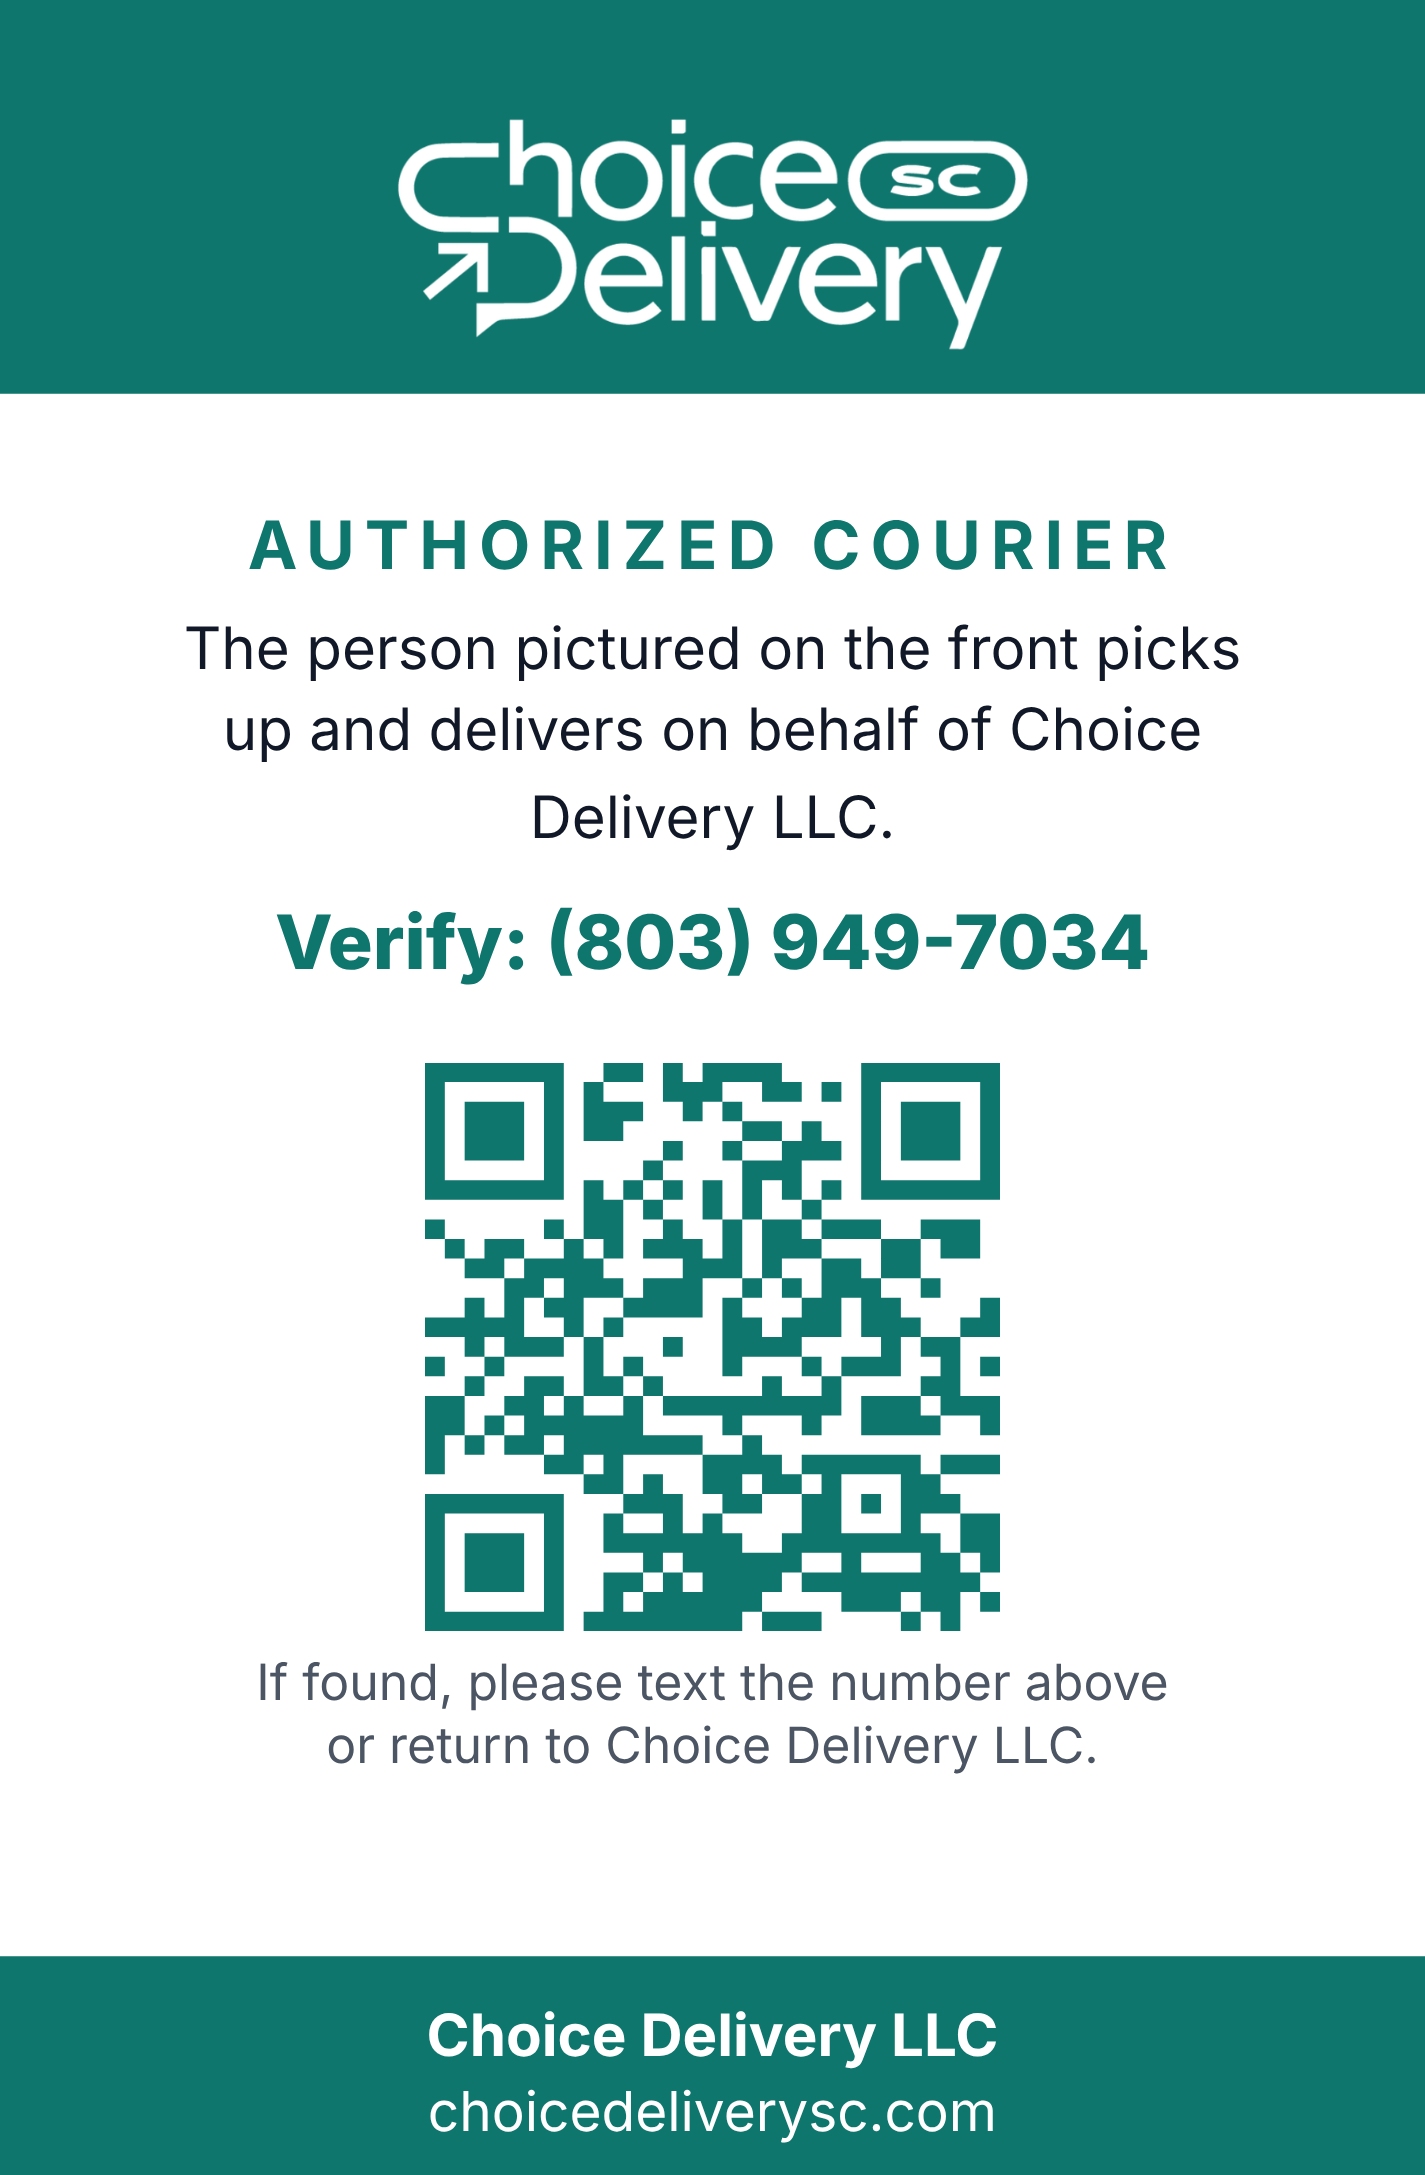
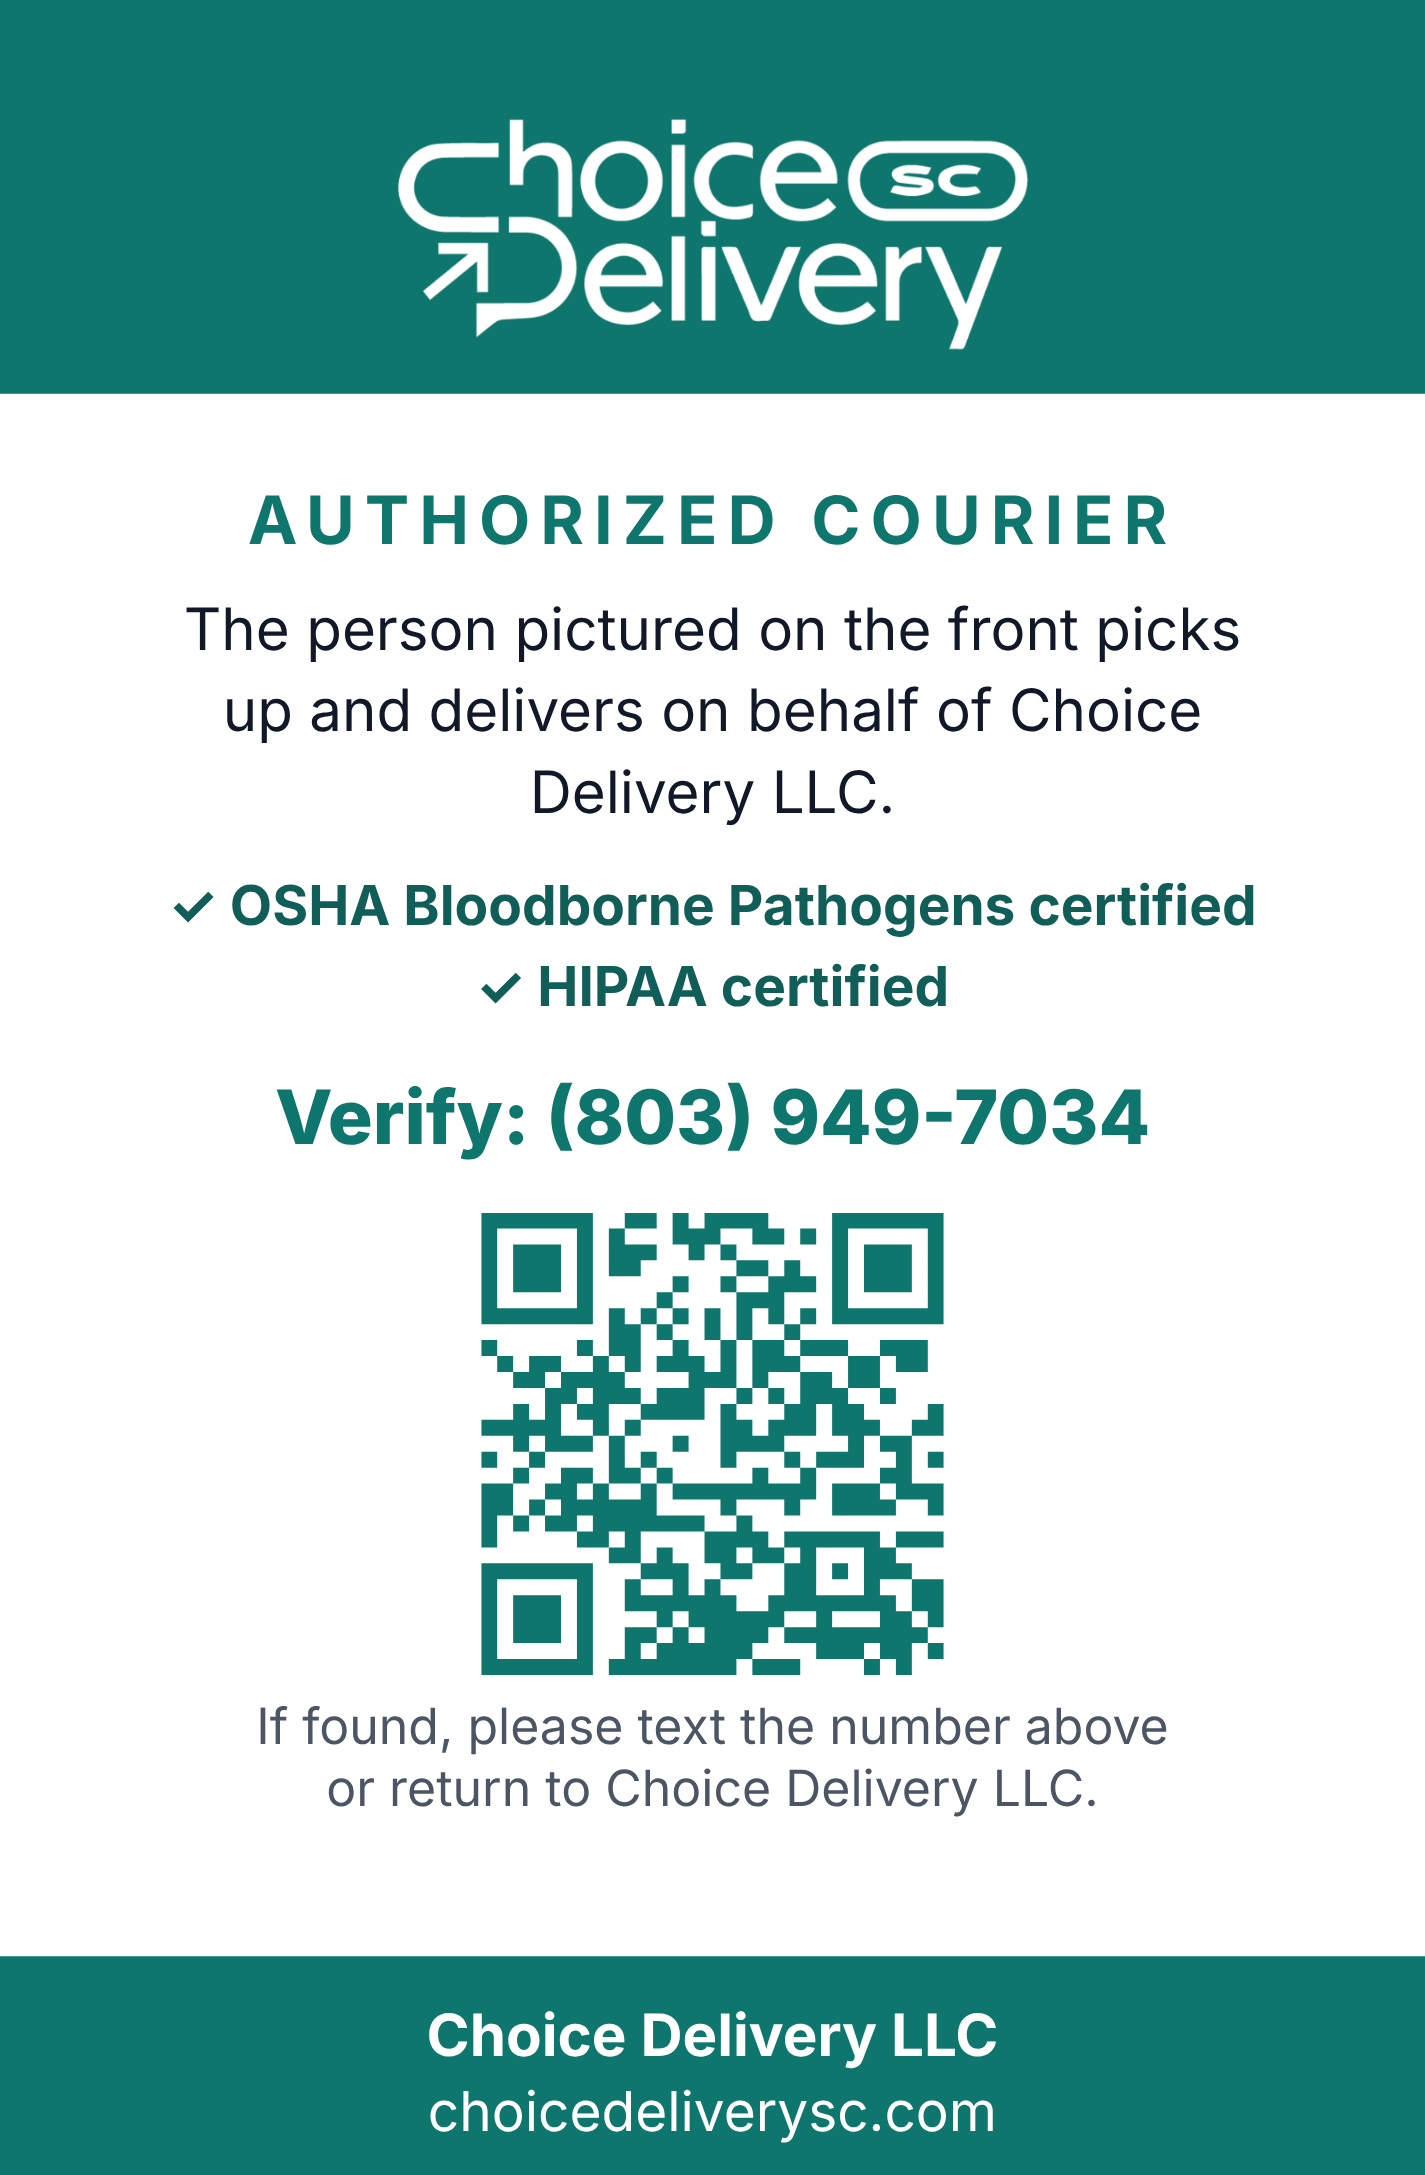
Add OSHA and HIPAA certifications to courier badge
Claude-Session: https://claude.ai/code/session_01FD8SjNXGRcZPPbJVqNuvnU

Changed region(s): [[0.1235, 0.2156, 0.8954, 0.8317]]

diff --git a/marketing/courier-gear.html b/marketing/courier-gear.html
@@ -16,23 +16,26 @@
   .top img { position: absolute; left: 50%; top: 0.3in; width: 1.55in; transform: translateX(-50%); }
   .band { position: absolute; left: 0; right: 0; top: 1.1in; height: 0.24in; background: var(--red); color: #fff;
     font-size: 8.4pt; font-weight: 800; letter-spacing: 1.6pt; text-align: center; line-height: 0.24in; }
-  .photo { position: absolute; left: 50%; top: 1.48in; width: 1.0in; height: 1.2in; transform: translateX(-50%);
+  .photo { position: absolute; left: 50%; top: 1.45in; width: 0.95in; height: 1.14in; transform: translateX(-50%);
     border: 1.5pt solid var(--teal); border-radius: 4pt; background: #f3f4f6; display: flex; align-items: center; justify-content: center;
     color: #9ca3af; font-size: 7pt; font-weight: 700; letter-spacing: 1pt; overflow: hidden; }
   .photo img { width: 100%; height: 100%; object-fit: cover; }
-  .who { position: absolute; left: 0; right: 0; top: 2.78in; text-align: center; }
+  .who { position: absolute; left: 0; right: 0; top: 2.67in; text-align: center; }
   .who .name { font-size: 11.5pt; font-weight: 800; line-height: 1.1; }
   .who .role { font-size: 7pt; color: var(--muted); margin-top: 0.02in; }
+  .cert { display: inline-block; margin-top: 0.045in; padding: 0.012in 0.07in; border-radius: 99pt; background: var(--mint-light);
+    color: var(--teal-dark); font-size: 5.8pt; font-weight: 800; letter-spacing: 0.3pt; }
+  .back .certs { margin-top: 0.07in; font-size: 6.6pt; font-weight: 700; color: var(--teal-dark); line-height: 1.4; }
   .foot { position: absolute; left: 0; right: 0; bottom: 0; height: 0.36in; background: var(--teal); color: #fff;
     font-size: 6.6pt; text-align: center; padding-top: 0.075in; line-height: 1.3; }
   .foot b { font-size: 7pt; }
 
   .back .head { position: absolute; left: 0; right: 0; top: 0; height: 0.66in; background: var(--teal); }
   .back .head img { position: absolute; left: 50%; top: 0.2in; width: 1.05in; transform: translateX(-50%); }
-  .back .body { position: absolute; left: 0.28in; right: 0.28in; top: 0.84in; text-align: center; }
+  .back .body { position: absolute; left: 0.24in; right: 0.24in; top: 0.8in; text-align: center; }
   .back h3 { font-size: 8pt; letter-spacing: 1.2pt; color: var(--teal); }
   .back p { font-size: 7pt; line-height: 1.4; margin-top: 0.05in; color: var(--ink); }
-  .back .qr { width: 0.95in; display: block; margin: 0.12in auto 0.03in; }
+  .back .qr { width: 0.78in; display: block; margin: 0.08in auto 0.03in; }
   .back .small { font-size: 6pt; color: var(--muted); }
   .back .phone { font-size: 9pt; font-weight: 800; color: var(--teal); margin-top: 0.06in; }
 
@@ -50,6 +53,7 @@
     <div class="who">
       <div class="name">Mequea Maddox</div>
       <div class="role">Owner · Authorized Courier</div>
+      <div class="cert">✓ OSHA &amp; HIPAA CERTIFIED</div>
     </div>
     <div class="foot"><b>Choice Delivery LLC</b><br>choicedeliverysc.com</div>
   </div>
@@ -61,6 +65,7 @@
     <div class="body">
       <h3>AUTHORIZED COURIER</h3>
       <p>The person pictured on the front picks up and delivers on behalf of Choice Delivery LLC.</p>
+      <div class="certs">✓ OSHA Bloodborne Pathogens certified<br>✓ HIPAA certified</div>
       <div class="phone">Verify: (803) 949-7034</div>
       <img class="qr" src="card-qr.svg" alt="">
       <div class="small">If found, please text the number above<br>or return to Choice Delivery LLC.</div>
